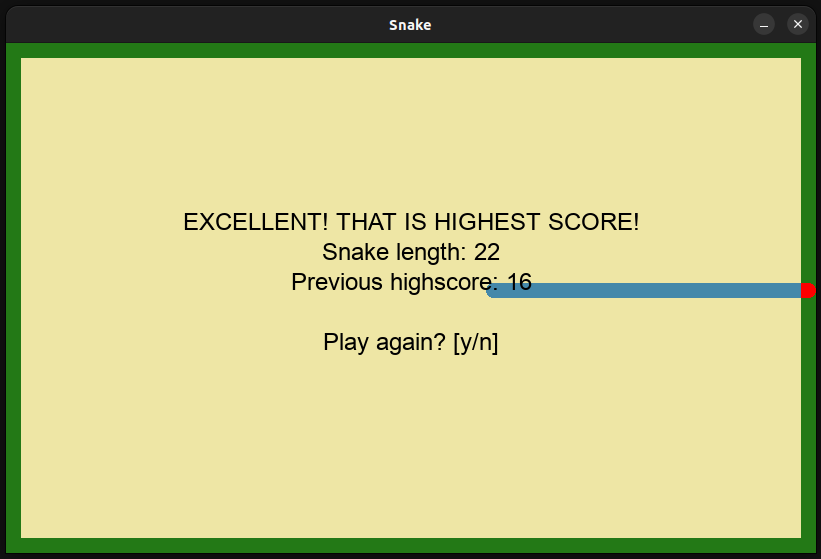
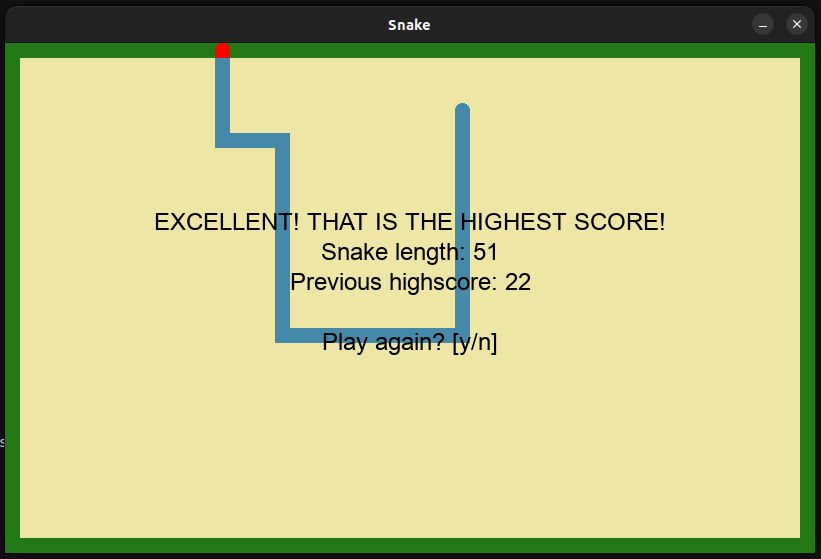
Update ending screen text

Changed region(s): [[0.1827, 0.0608, 1.0, 0.6386], [0.4568, 0.0304, 0.5177, 0.0608], [0.0, 0.7603, 0.0305, 0.8211]]

diff --git a/src/gameOverState.cpp b/src/gameOverState.cpp
@@ -71,7 +71,7 @@ void GameOverState::drawInstructions(int snakeSize, int highestScore) const {
 	if (snakeSize == highestScore) {
 		writer.writeCenterAtLine(-3, "EXCELLENT! YOU MATCHED THE RECORD!");
 	} else if (snakeSize > highestScore) {
-		writer.writeCenterAtLine(-3, "EXCELLENT! THAT IS HIGHEST SCORE!");
+		writer.writeCenterAtLine(-3, "EXCELLENT! THAT IS THE HIGHEST SCORE!");
 	} else {
 		writer.writeCenterAtLine(-3, "GAME OVER");
 	}
